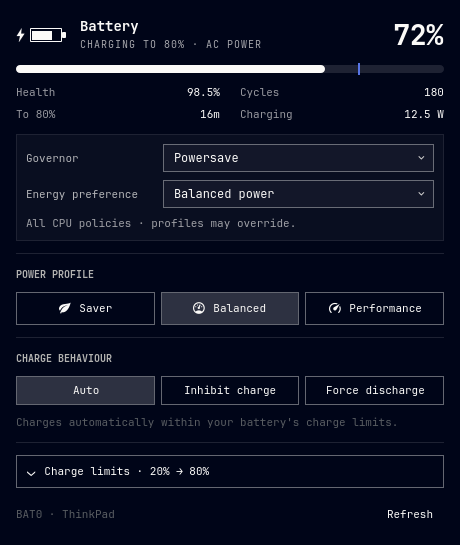
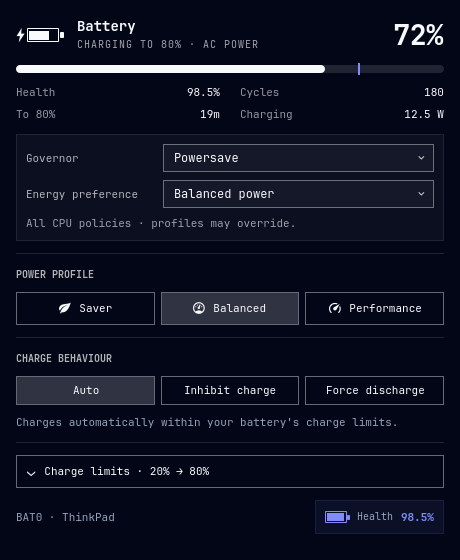
Release 3.2.1 with battery health indicator and installer fix

diff --git a/Dashboard.qml b/Dashboard.qml
@@ -410,7 +410,49 @@ Item {
                     elide: Text.ElideRight
                     wrapMode: Text.NoWrap
                 }
-                Action { text: "Refresh"; bordered: false; onClicked: root.backend.refresh() }
+                Rectangle {
+                    id: healthIndicator
+                    readonly property bool available: root.known(root.b.health) && root.b.health >= 0
+                    readonly property color tint: available ? root.accent : root.muted
+                    Layout.fillWidth: false
+                    implicitWidth: healthContent.implicitWidth + root.u(20)
+                    implicitHeight: root.u(34)
+                    radius: Math.min(root.cornerRadius, height / 2)
+                    color: Qt.rgba(tint.r, tint.g, tint.b, 0.07)
+                    border.width: 1
+                    border.color: Qt.rgba(tint.r, tint.g, tint.b, 0.18)
+                    opacity: root.fresh ? 1 : 0.55
+                    Accessible.role: Accessible.StaticText
+                    Accessible.name: "Battery health: " + (available ? root.fmt(root.b.health, "%") : "unavailable")
+
+                    RowLayout {
+                        id: healthContent
+                        anchors.centerIn: parent
+                        spacing: root.u(8)
+                        BatteryGlyph {
+                            Layout.preferredWidth: root.u(24)
+                            Layout.preferredHeight: root.u(16)
+                            percent: healthIndicator.available ? root.b.health : null
+                            foreground: healthIndicator.tint
+                            background: root.background
+                            alert: false
+                        }
+                        Label {
+                            text: "Health"
+                            Layout.fillWidth: false
+                            font.pixelSize: Commons.Style.font.caption
+                            color: root.muted
+                            wrapMode: Text.NoWrap
+                        }
+                        Label {
+                            text: healthIndicator.available ? root.fmt(root.b.health, "%") : "—"
+                            Layout.fillWidth: false
+                            font.bold: true
+                            color: healthIndicator.tint
+                            wrapMode: Text.NoWrap
+                        }
+                    }
+                }
             }
         }
     }

diff --git a/tests/test_distribution.py b/tests/test_distribution.py
@@ -101,6 +101,34 @@ if [[ $* == 'plugin list --json' ]]; then printf '[]\\n'; fi
         self.assertEqual(result.returncode, 2, result.stderr)
         self.assertFalse(self.calls.exists())
 
+    def test_installer_prepares_missing_runtime_tools_before_checking_them(self):
+        binary = self.setup_installer()
+        fixture = self.base / "installer"
+        (fixture / "scripts").mkdir(parents=True)
+        for name in ("install.sh", "BarWidget.qml", "BatteryGlyph.qml", "BatteryModel.qml",
+                     "Dashboard.qml", "Panel.qml", "Display.js", "manifest.json", "qmldir", "LICENSE"):
+            shutil.copy2(ROOT / name, fixture / name)
+        installer = fixture / "install.sh"
+        installer.write_text(installer.read_text().replace("/usr/bin/batctl", str(self.shims / "batctl")))
+        for name in ("powerprofilesctl", "pkexec"):
+            (self.shims / name).unlink()
+        for name in ("bash", "dirname", "realpath", "mkdir", "install", "mv", "date", "rm", "cp", "chmod", "mktemp"):
+            (self.shims / name).symlink_to(shutil.which(name))
+        # Only the host tools exist initially; setup supplies the runtime tools.
+        self.env["PATH"] = str(self.shims)
+        (fixture / "scripts/setup.sh").write_text('''#!/usr/bin/env bash
+printf 'prepare %s\\n' "$*" >> "$TEST_CALLS"
+install -m 0755 /usr/bin/true "${PATH}/powerprofilesctl"
+install -m 0755 /usr/bin/true "${PATH}/pkexec"
+install -m 0755 /usr/bin/jq "${PATH}/jq"
+''')
+        result = subprocess.run([str(self.shims / "bash"), str(fixture / "install.sh"),
+                                 "--prebuilt", str(binary)], env=self.env, text=True,
+                                capture_output=True, timeout=20)
+        self.assertEqual(result.returncode, 0, result.stderr)
+        self.assertEqual(self.calls.read_text().splitlines()[0], "prepare --runtime")
+        self.assertTrue((self.base / "config/omarchy/plugins" / PLUGIN_ID / "Dashboard.qml").exists())
+
     def test_setup_installs_missing_aur_dependency_after_confirmation(self):
         self.ready_dependencies()
         marker = self.base / "installed"

diff --git a/docs/marketplace-submission.md b/docs/marketplace-submission.md
@@ -18,7 +18,7 @@ _No response_
 
 PowerKit is an English-language battery and power-profile bar widget for Omarchy Quattro. It has a native themed panel, seven bar display formats, batctl presets/custom thresholds/persistence, power-profiles-daemon profiles, hardware-advertised Auto / Inhibit charge / Force discharge controls, and CPU governor/energy-preference controls. Plugin ID: `io.github.sabb4th.powerkit`. MIT licensed; root `preview.png` was captured from our own QML preview using simulated readings.
 
-Native `omarchy plugin add` is supported: the tracked `bin/powerkit` launcher compiles the Rust backend once into the user's XDG cache with locked Cargo dependencies, and rebuilds after source changes. This requires Cargo and registry access for an uncached build. Release archives also contain a prebuilt backend and checksums. No packages or services are installed automatically.
+Native `omarchy plugin add` is supported: the tracked `bin/powerkit` launcher compiles the Rust backend once into the user's XDG cache with locked Cargo dependencies, and rebuilds after source changes. When dependencies are missing, the launcher opens one visible terminal with a summary and explicit confirmation before using Omarchy to install missing Arch/AUR packages or enable power-profiles-daemon. Active competing power managers block service activation; cancellation is remembered to prevent repeated prompts. Cargo and registry access are required for an uncached build. Release archives also contain a prebuilt backend and checksums. No separate manual setup command is required for a successful native installation.
 
 Runtime dependencies: Omarchy Quattro/Quickshell, Ooooze's `batctl-tui` (`/usr/bin/batctl`, not the mesh-networking utility), configured power-profiles-daemon and Omarchy's standard profile bridge, jq/coreutils, and polkit with a graphical authentication agent.
 

diff --git a/README.md b/README.md
@@ -31,7 +31,7 @@ Omarchy's native installer does not execute `install.sh`: first-use preparation 
 - **Charge behaviour:** Auto, Inhibit charge and Force discharge, restricted to the selected battery's advertised modes. A short description explains the current mode.
 - **Charge limits:** expand for four hardware-adapted batctl presets, custom start/stop limits, boot/resume persistence and saved-limit restoration.
 
-The panel shows health, charge cycles, CPU governor/energy preference, power and estimated runtime or time to the charge limit. Temperature and voltage appear when temperature telemetry exists. Missing values display `—`. The interface is English; the appearance follows your Omarchy theme.
+The footer includes a compact battery-health indicator with the theme accent and live health percentage. Middle-click the bar to refresh. The panel shows health, charge cycles, CPU governor/energy preference, power and estimated runtime or time to the charge limit. Temperature and voltage appear when temperature telemetry exists. Missing values display `—`. The interface is English; the appearance follows your Omarchy theme.
 
 **Charge behaviour applies to the selected battery. Thresholds apply to all batteries through batctl.** Auto follows normal charging policy and limits. Inhibit charge pauses charging; power routing depends on hardware. Force discharge uses the battery even on AC power: select Auto to stop it. Behaviour is not saved or replayed by PowerKit. The persistence switch saves **thresholds only**. When persistent thresholds change, PowerKit updates the saved values too; a failed save is reported separately from live application.
 

diff --git a/VALIDACAO.md b/VALIDACAO.md
@@ -1,6 +1,15 @@
-# Validation · PowerKit 3.1.0
+# Validation · PowerKit 3.2.1
 
-Validated on 2026-10-15 with Omarchy Quattro and a ThinkPad battery backend.
+Validated on 2026-10-21 with Omarchy Quattro.
+
+## 3.2.1 health indicator and installation
+
+- Ten Rust tests, seven isolated distribution/setup tests, Clippy, rustfmt, JavaScript presentation checks and local Omarchy manifest validation pass.
+- The installer regression starts with missing runtime tools and checks that preparation runs before dependency checks; no real packages, services or hardware settings are changed.
+- The native confirmed preparation, cancellation suppression, competing-service checks and source-cache behavior remain covered by the distribution tests.
+- The footer reuses BatteryGlyph for live health, with theme colors, a readable percentage, missing-data fallback and a stale-data treatment. The existing bar middle-click refresh remains available.
+- The actual Quickshell runtime loads the panel without QML errors; preview.png uses simulated values.
+- Standard marketplace installation still requires an explicit exact-snapshot maintainer decision; source compatibility alone does not remove the manual-installation override.
 
 ## 3.1.0 CPU controls and visual refinement
 

diff --git a/README.pt-BR.md b/README.pt-BR.md
@@ -26,6 +26,8 @@ Clique esquerdo abre o painel; direito alterna a aparência da barra; meio atual
 
 O painel não mostra mais janelas ao passar o mouse. O espaço do raio só aparece durante o carregamento, com expansão suave, e as mudanças de carga, formato e destaque usam transições curtas, sem animação contínua em repouso.
 
+O rodapé mostra a saúde da bateria com um pequeno ícone preenchido proporcionalmente e a porcentagem na cor de destaque do tema. O clique do meio na barra continua atualizando os dados.
+
 O painel oferece perfis Saver → Balanced → Performance, modos Auto / Inhibit charge / Force discharge, indicadores da bateria e limites em uma seção expansível. O raio de carregamento fica à esquerda do ícone, sem preenchimento cinza.
 
 Os modos valem para a bateria selecionada; limites do batctl valem para todas. Force discharge usa a bateria mesmo conectado à tomada; Auto encerra essa descarga forçada. O plugin não salva nem reaplica o modo: a persistência cobre somente os limites. Alterações de carga solicitam autenticação do sistema.

diff --git a/docs/PUBLISHING.md b/docs/PUBLISHING.md
@@ -21,3 +21,5 @@ PowerKit is already listed. Do not submit another new-plugin issue. After the re
 - Verification acknowledgment: checked
 
 Describe the release and its current privileged operations in the notes. An update must be validated and accepted for that exact commit before the marketplace promotes its snapshot. Native first-use dependency preparation must be reviewed before requesting removal of the manual-setup override. Submit the newer commit first, then request standard installation for that exact listed snapshot; only maintainers can approve the installation-label change.
+
+The current standard-installation policy accepts a passing baseline or a matching installer-only maintainer review. PowerKit also declares privilege, package-manager and service-management capabilities, which can require a marketplace policy decision before the override can be removed. Preserve the real capabilities and document them in the request; do not remove working controls or disguise operations to change a scan result.

diff --git a/CHANGELOG.md b/CHANGELOG.md
@@ -1,5 +1,11 @@
 # Changelog
 
+## 3.2.1
+
+- Replaced the panel refresh button with a compact themed battery-health indicator, using the existing battery artwork and live health percentage. Middle-click refresh remains available on the bar.
+- Fixed optional installer dependency checks so first-use preparation can install missing tools before they are required.
+- Preserved the confirmed native installation flow, cached source builds and existing battery/CPU controls.
+
 ## 3.2.0
 
 - Added confirmed first-use dependency preparation for native `omarchy plugin add` installations, with one terminal across widget instances.
